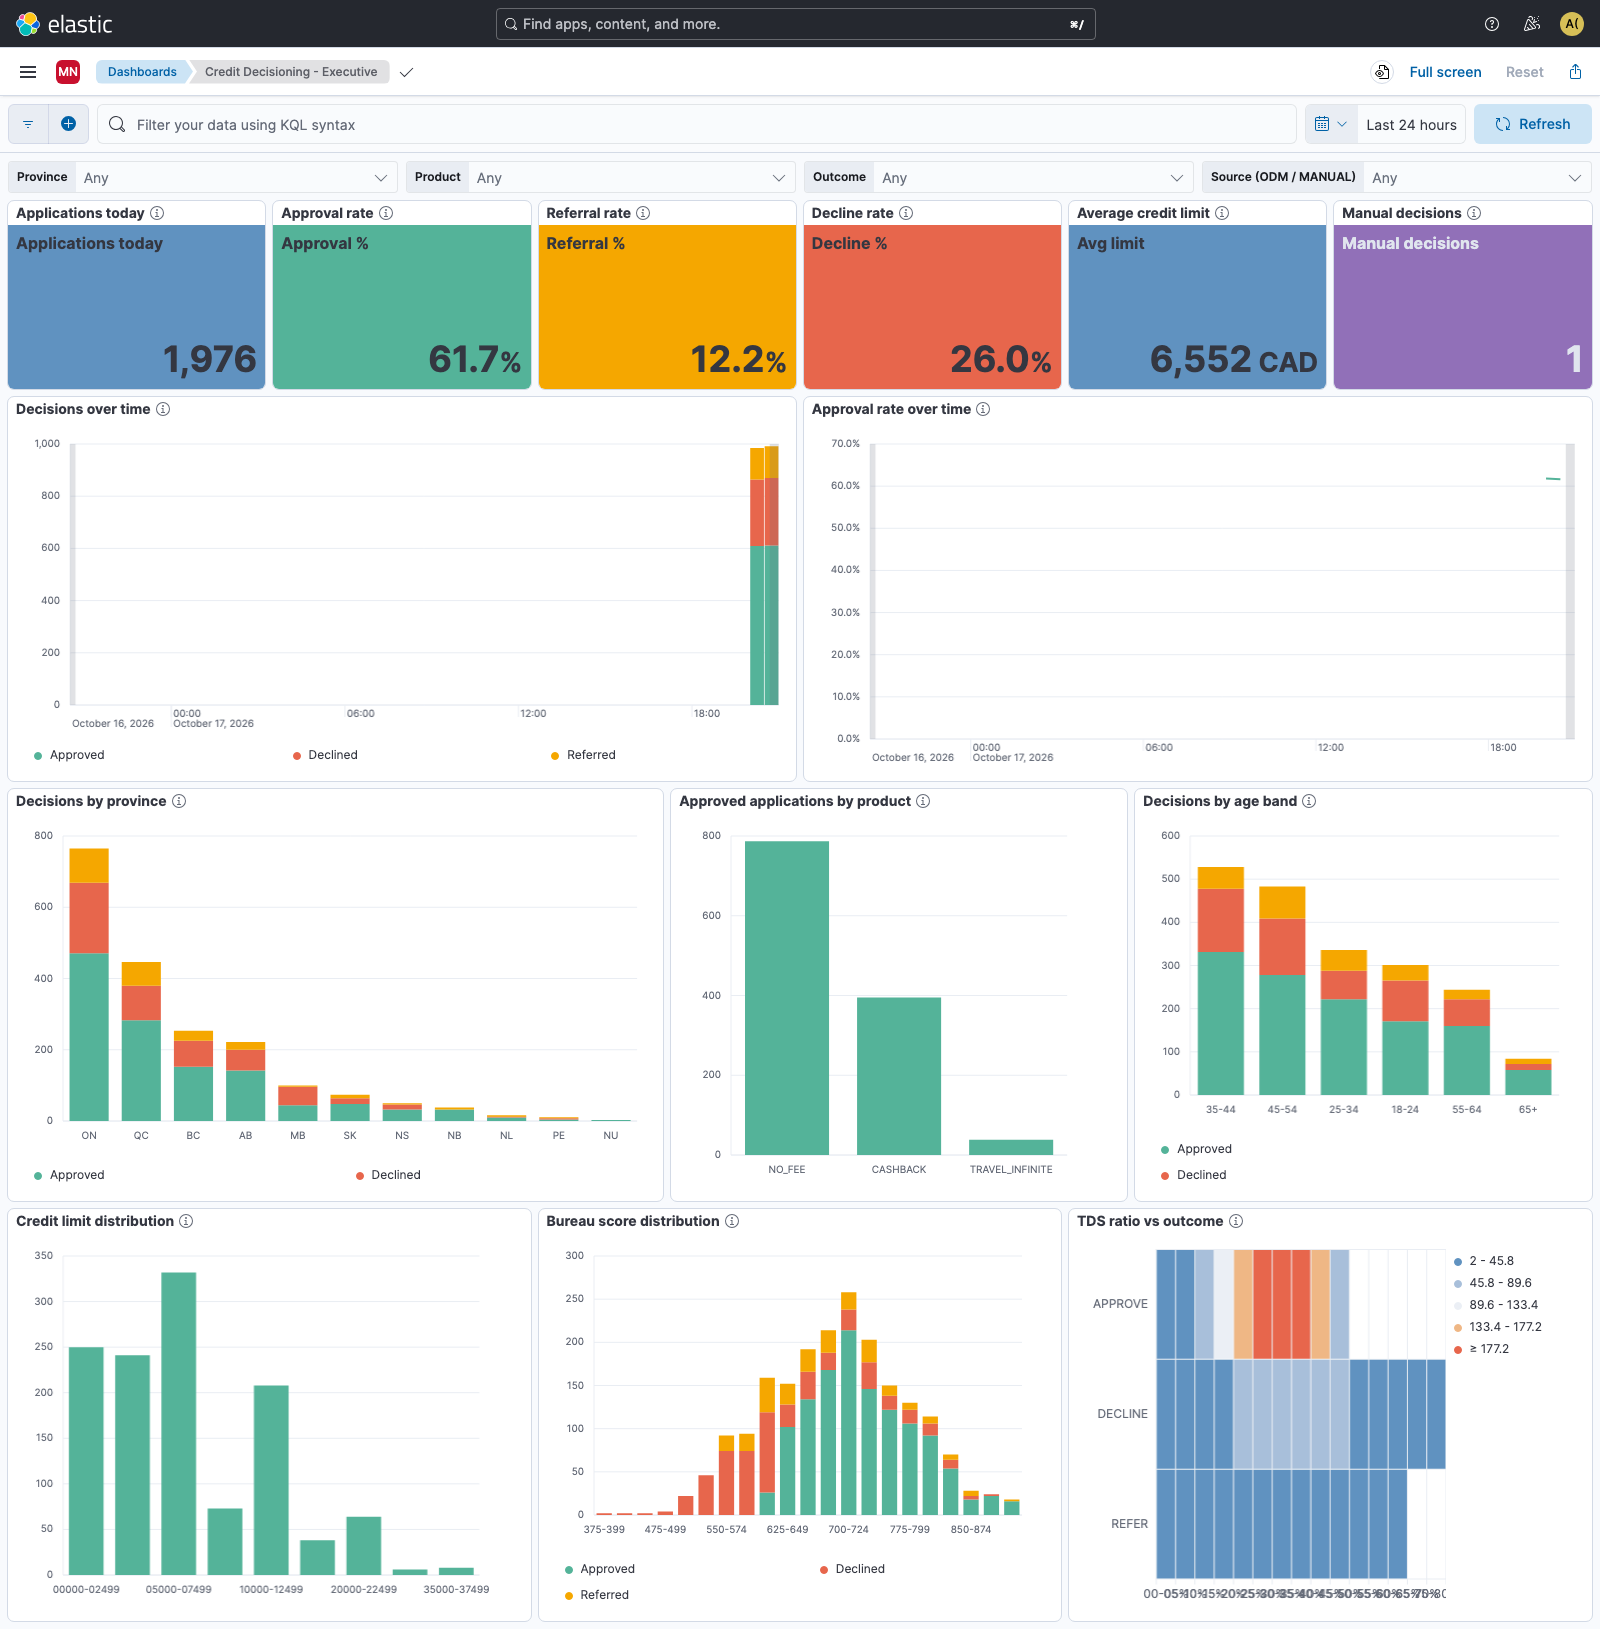
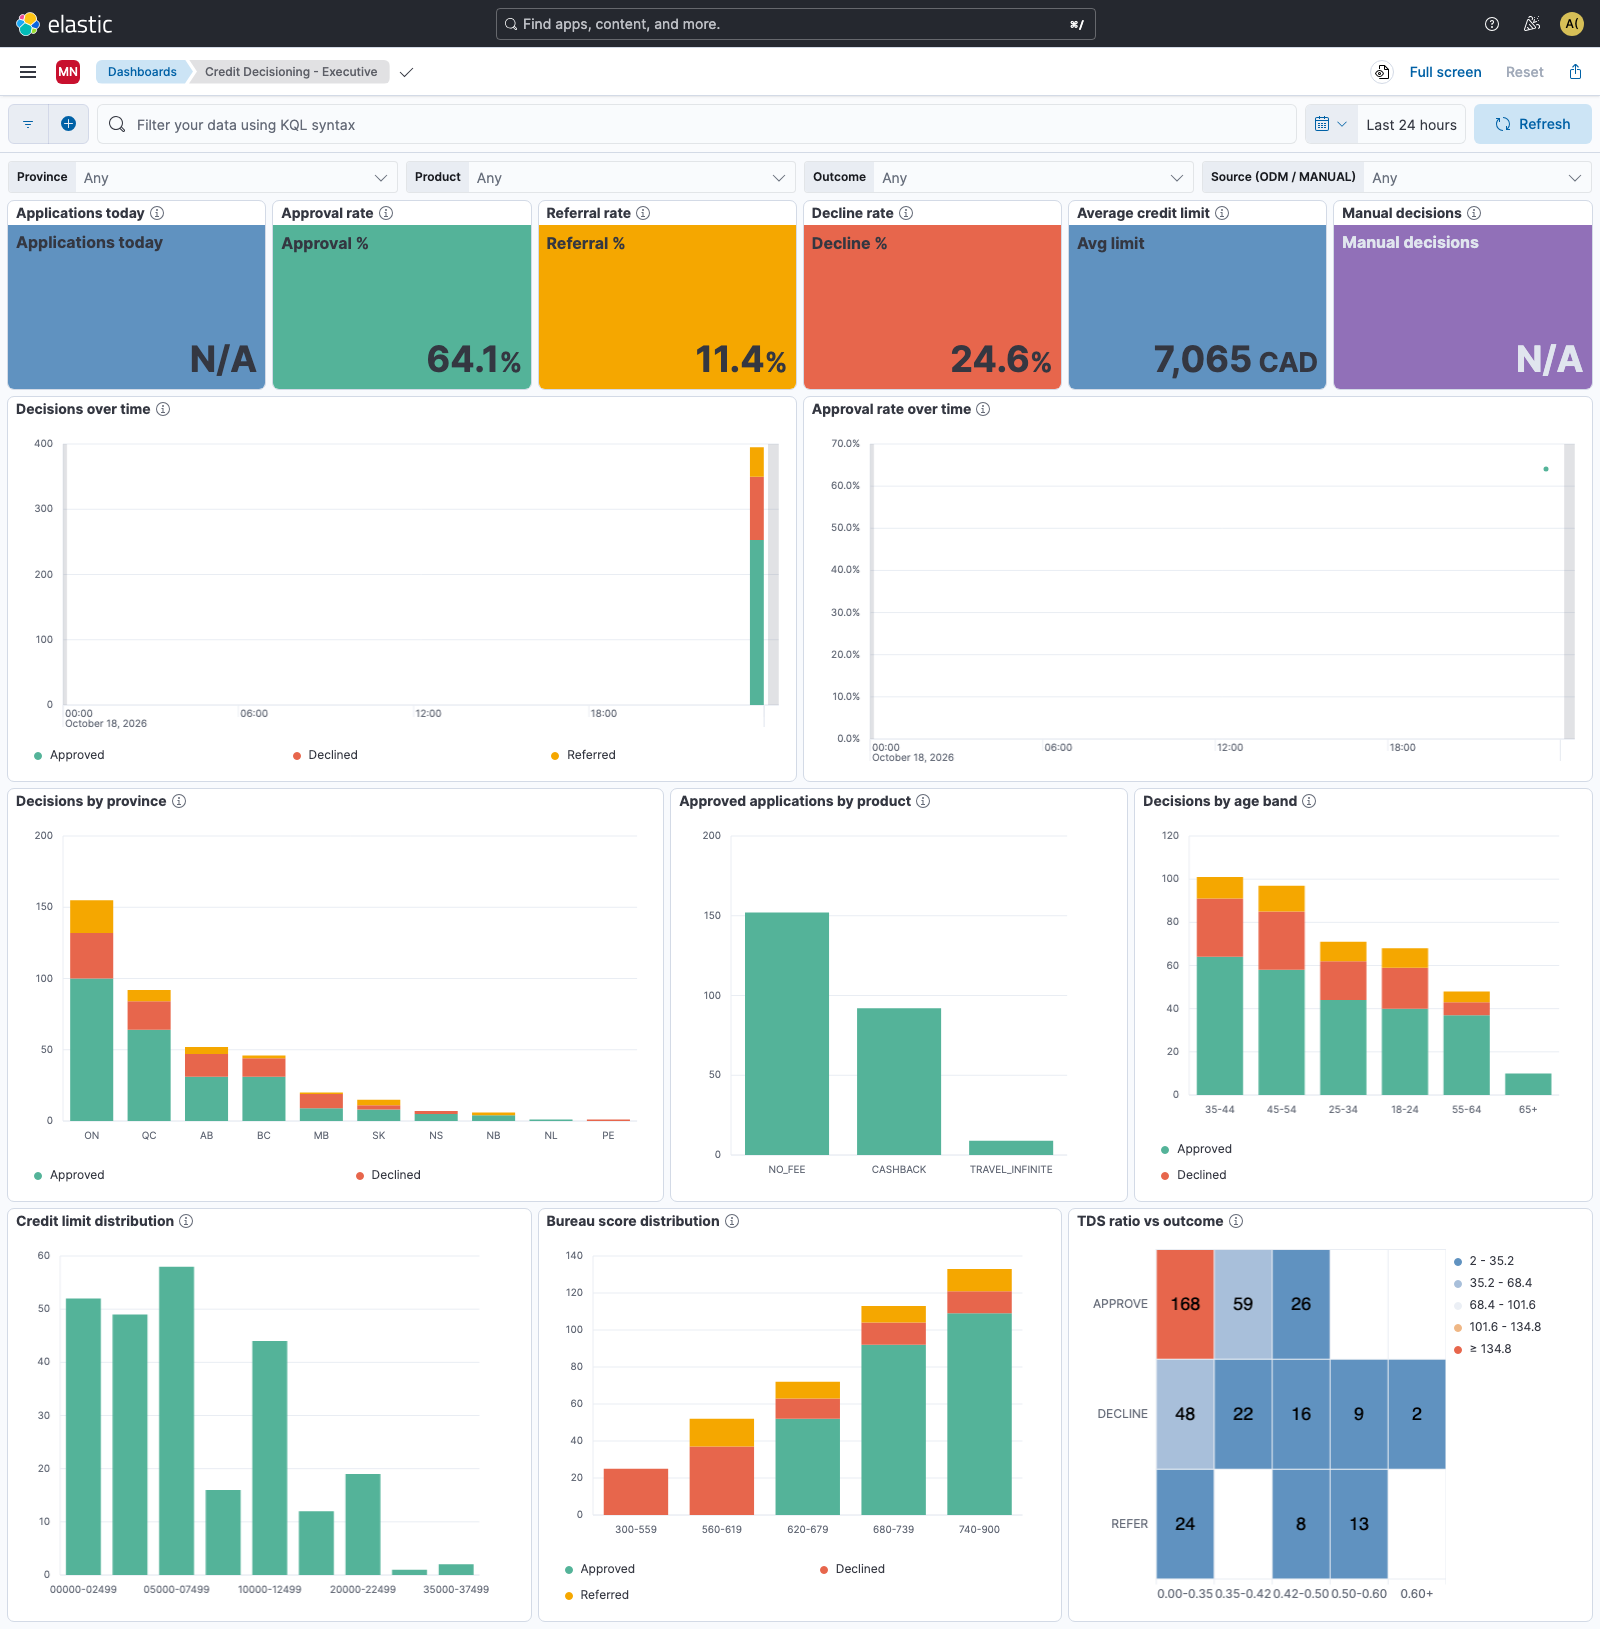
feat(kibana): band panels, MCP audit trail and fairness ratio flags

diff --git a/observability/kibana/bootstrap/gen_saved_objects.py b/observability/kibana/bootstrap/gen_saved_objects.py
@@ -75,13 +75,6 @@ data_view(
         "isDeclined": outcome_flag("DECLINE"),
         "isReferred": outcome_flag("REFER"),
         # buckets as sortable text: Lens interval buckets label themselves badly in bars, text buckets sort and read well
-        "scoreBand": {
-            "type": "keyword",
-            "script": {
-                "source": "if (doc['payload.applicantSummary.bureauScore'].size() == 0) return; "
-                "long lo = (doc['payload.applicantSummary.bureauScore'].value / 25) * 25; emit(lo + '-' + (lo + 24));"
-            },
-        },
         "limitBand": {
             "type": "keyword",
             "script": {
@@ -89,15 +82,6 @@ data_view(
                 "long lo = ((long) (doc['payload.creditLimit'].value / 2500)) * 2500; "
                 "String a = Long.toString(lo); while (a.length() < 5) { a = '0' + a; } "
                 "String b = Long.toString(lo + 2499); while (b.length() < 5) { b = '0' + b; } emit(a + '-' + b);"
-            },
-        },
-        "tdsBand": {
-            "type": "keyword",
-            "script": {
-                "source": "if (doc['payload.applicantSummary.tdsRatio'].size() == 0) return; "
-                "long k = (long) (doc['payload.applicantSummary.tdsRatio'].value * 20); if (k >= 20) { emit('100%+'); return; } "
-                "long lo = k * 5; String a = Long.toString(lo); if (a.length() < 2) { a = '0' + a; } "
-                "String b = Long.toString(lo + 5); if (b.length() < 2) { b = '0' + b; } emit(a + '-' + b + '%');"
             },
         },
     },
@@ -243,6 +227,8 @@ def formula_columns(prefix, label, text, tree, leaves, fmt=None):
     def rename(node):
         if isinstance(node, str):
             return ids[node]
+        if isinstance(node, (int, float)):
+            return node
         return {**node, "args": [rename(a) for a in node["args"]]}
 
     cols = {
@@ -281,6 +267,8 @@ def formula_columns(prefix, label, text, tree, leaves, fmt=None):
 def _used(node):
     if isinstance(node, str):
         return {node}
+    if isinstance(node, (int, float)):
+        return set()
     out = set()
     for a in node["args"]:
         out |= _used(a)
@@ -421,7 +409,16 @@ def metric(id_, title, description, view, column, color=None, subtitle=None):
 
 
 def table(
-    id_, title, description, view, columns, order=None, sort=None, row_height="auto"
+    id_,
+    title,
+    description,
+    view,
+    columns,
+    order=None,
+    sort=None,
+    row_height="auto",
+    flag_col=None,
+    query=None,
 ):
     cols = [
         {"columnId": c, "isTransposed": False}
@@ -437,6 +434,33 @@ def table(
     }
     if sort:
         vis["sorting"] = {"columnId": sort[0], "direction": sort[1]}
+    if flag_col:  # 0/1 column: a red cell for 1
+        for c in vis["columns"]:
+            if c["columnId"] == flag_col:
+                c["colorMode"] = "cell"
+                c["palette"] = {
+                    "name": "custom",
+                    "type": "palette",
+                    "params": {
+                        "name": "custom",
+                        "reverse": False,
+                        "rangeType": "number",
+                        "rangeMin": 0,
+                        "rangeMax": 1,
+                        "progression": "fixed",
+                        "stops": [
+                            {"color": "#ffffff", "stop": 0.5},
+                            {"color": RED, "stop": 1.5},
+                        ],
+                        "steps": 2,
+                        "colorStops": [
+                            {"color": "#ffffff", "stop": 0},
+                            {"color": RED, "stop": 0.5},
+                        ],
+                        "continuity": "none",
+                        "maxSteps": 5,
+                    },
+                }
     return lens(
         id_,
         title,
@@ -444,6 +468,7 @@ def table(
         "lnsDatatable",
         vis,
         {"l1": (view, columns, ordered(columns))},
+        query=query,
     )
 
 
@@ -815,7 +840,7 @@ xy(
     legend=False,
 )
 cols = {
-    "x": col_terms("scoreBand", "Bureau score", size=60),
+    "x": col_terms(S + "scoreBand", "Bureau score band", size=10),
     **{k: v for k, v in OUTCOME_Y().items()},
 }
 xy(
@@ -830,7 +855,7 @@ xy(
     colors=OUTCOME_YCOLORS,
 )
 cols = {
-    "x": col_terms("tdsBand", "Total debt service ratio", size=25),
+    "x": col_terms(S + "tdsBand", "Total debt service ratio band", size=10),
     "y": col_terms(P + "outcome", "Outcome", order_col="v", size=3),
     "v": col_count("Decisions", ODM),
 }
@@ -941,30 +966,48 @@ def parity(id_, title, description, field, label, size):
             RATIO,
         )
     )
+    flag_leaves = {k: dict(v) for k, v in leaves.items()}
+    flag_tree = fn(
+        "ifelse",
+        fn("gte", "b", 30),
+        fn("ifelse", fn("lt", tree, 0.8), 1, 0),
+        0,
+    )
+    cols.update(
+        formula_columns(
+            "flag",
+            "Review (1 = ratio below 0.8 with n of 30 or more)",
+            "ifelse(count() >= 30, ifelse(((sum(isApproved) / count()) / (overall_sum(sum(isApproved)) / overall_sum(count()))) < 0.8, 1, 0), 0)",
+            flag_tree,
+            flag_leaves,
+            NUMBER0,
+        )
+    )
     return table(
         id_,
         title,
         description,
         "cc-decisions",
         cols,
-        order=["g", "n", "rate", "di"],
+        order=["g", "n", "rate", "di", "flag"],
         sort=("di", "asc"),
+        flag_col="flag",
     )
 
 
 parity(
     "mn-risk-parity-province",
-    "Approval parity by province",
-    "Approval rate of each province, its sample size (n) and the disparate impact ratio: group rate divided by the overall rate. "
-    "Below 0.8 (four-fifths rule) deserves a look; small n gives noisy ratios.",
+    "Fairness ratios by province",
+    "Approval rate of each province, its sample size (n), the disparate impact ratio (group rate divided by the overall rate) and a review flag. "
+    "Below 0.8 (four-fifths rule) with n of 30 or more is flagged; small n gives noisy ratios.",
     S + "province",
     "Province",
     13,
 )
 parity(
     "mn-risk-parity-age",
-    "Approval parity by age band",
-    "Same as by province, per applicant age band. Below 0.8 deserves a look; read it with n.",
+    "Fairness ratios by age band",
+    "Same as by province, per applicant age band: ratio, n and the review flag.",
     S + "ageBand",
     "Age band",
     6,
@@ -1141,6 +1184,23 @@ xy(
     split="s",
 )
 
+cols = {
+    "tool": col_terms(P + "resourceId", "Tool", order_col="n", size=20),
+    "caller": col_terms(P + "actor", "Caller", order_col="n", size=10),
+    "out": col_terms(P + "result", "Outcome", order_col="n", size=3),
+    "n": col_count("Calls", None, NUMBER0),
+}
+table(
+    "mn-ops-mcp-audit",
+    "MCP audit trail",
+    "Tool calls of the MCP servers (cc-audit, eventType cc.audit.mcp.v1) by tool, caller and outcome (SUCCESS, FAILURE or DENIED). Arguments are never stored, only their names and a hash.",
+    "cc-audit",
+    cols,
+    order=["tool", "caller", "out", "n"],
+    sort=("n", "desc"),
+    query=kql('eventType: "cc.audit.mcp.v1"'),
+)
+
 search(
     "mn-search-recent-decisions",
     "Recent decisions",
@@ -1154,7 +1214,7 @@ search(
         P + "product",
         S + "province",
         S + "ageBand",
-        S + "bureauScore",
+        S + "scoreBand",
     ],
     [["@timestamp", "desc"]],
 )
@@ -1180,8 +1240,9 @@ dashboard(
         ("lens", "mn-ops-latency", 24, 7, 24, 15),
         ("lens", "mn-ops-dlq-table", 0, 22, 24, 14),
         ("lens", "mn-ops-errors", 24, 22, 24, 14),
-        ("search", "mn-search-recent-decisions", 0, 36, 48, 14),
-        ("search", "mn-search-alerts", 0, 50, 48, 10),
+        ("lens", "mn-ops-mcp-audit", 0, 36, 48, 14),
+        ("search", "mn-search-recent-decisions", 0, 50, 48, 14),
+        ("search", "mn-search-alerts", 0, 64, 48, 10),
     ],
     DEC_CONTROLS,
 )
